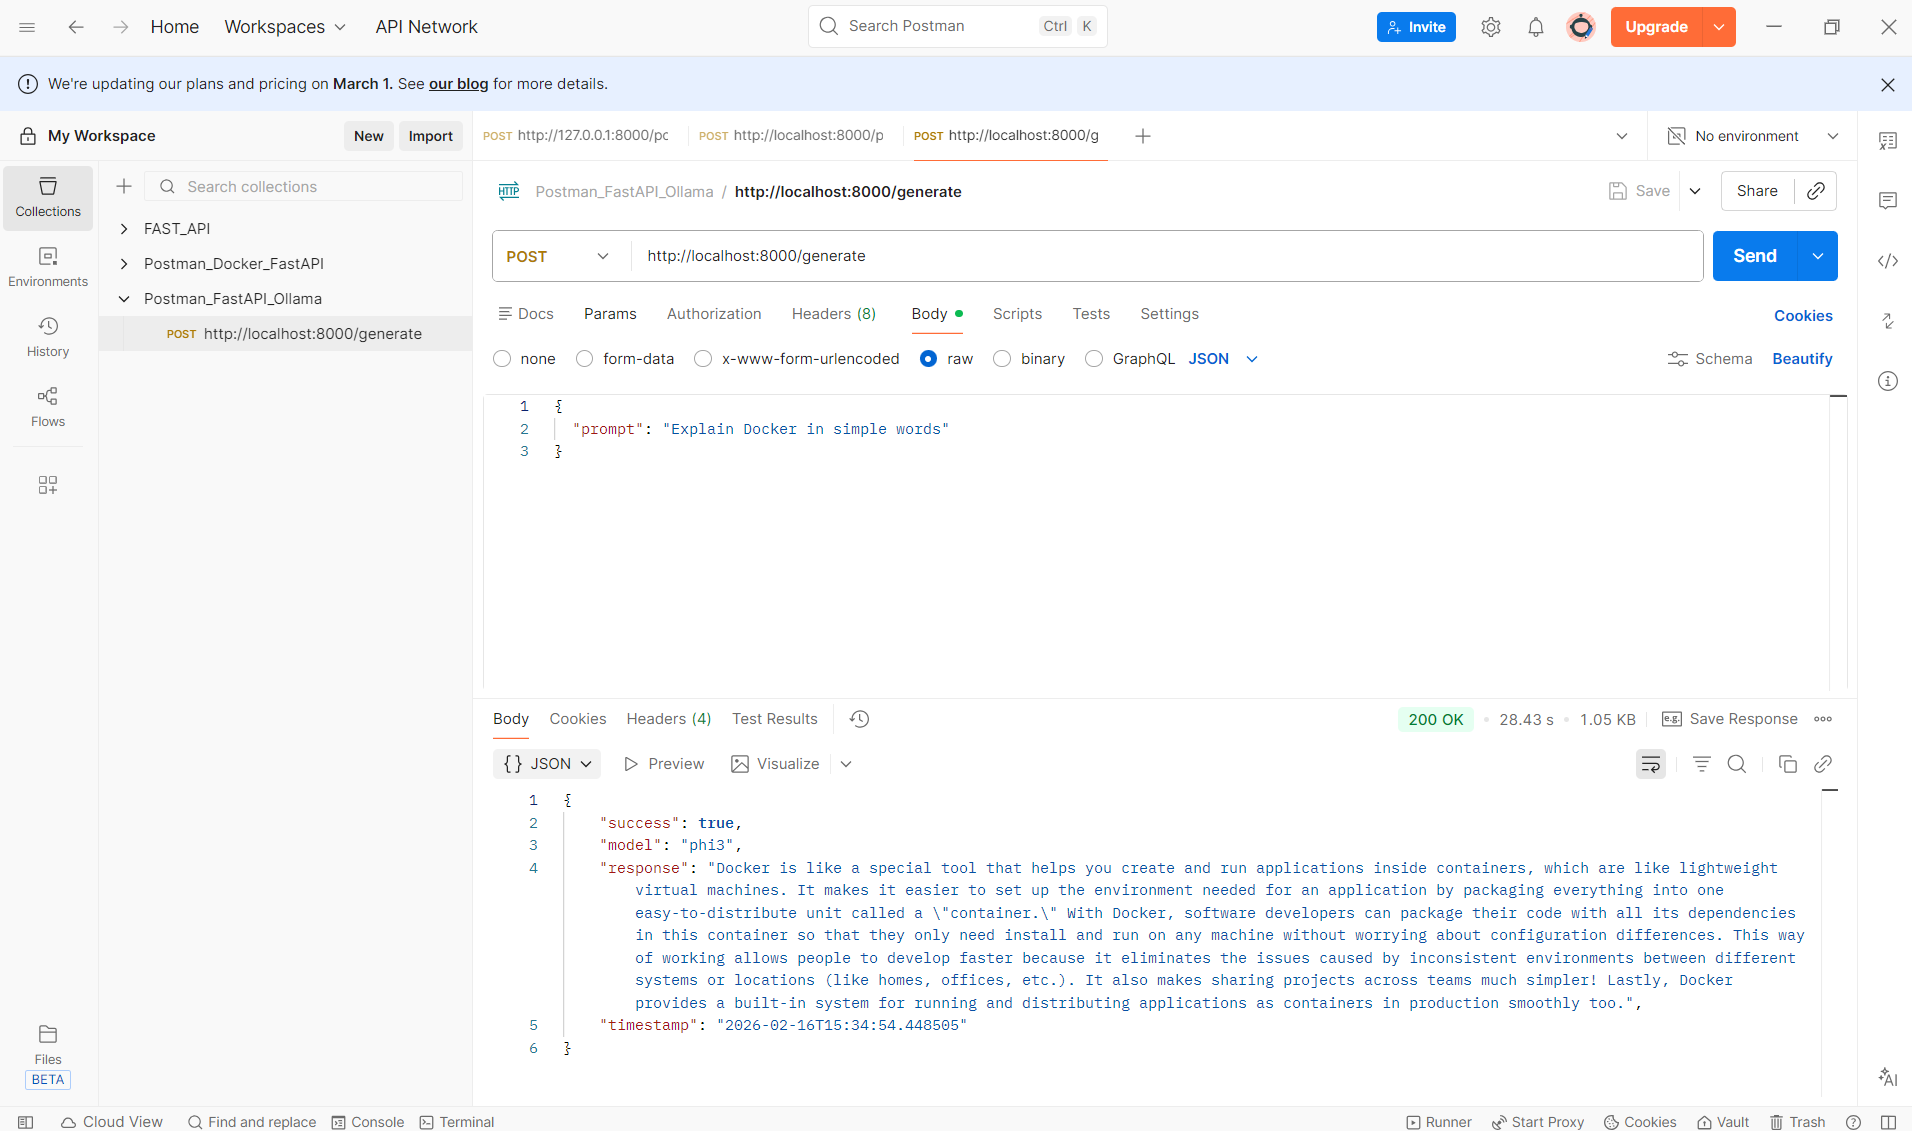
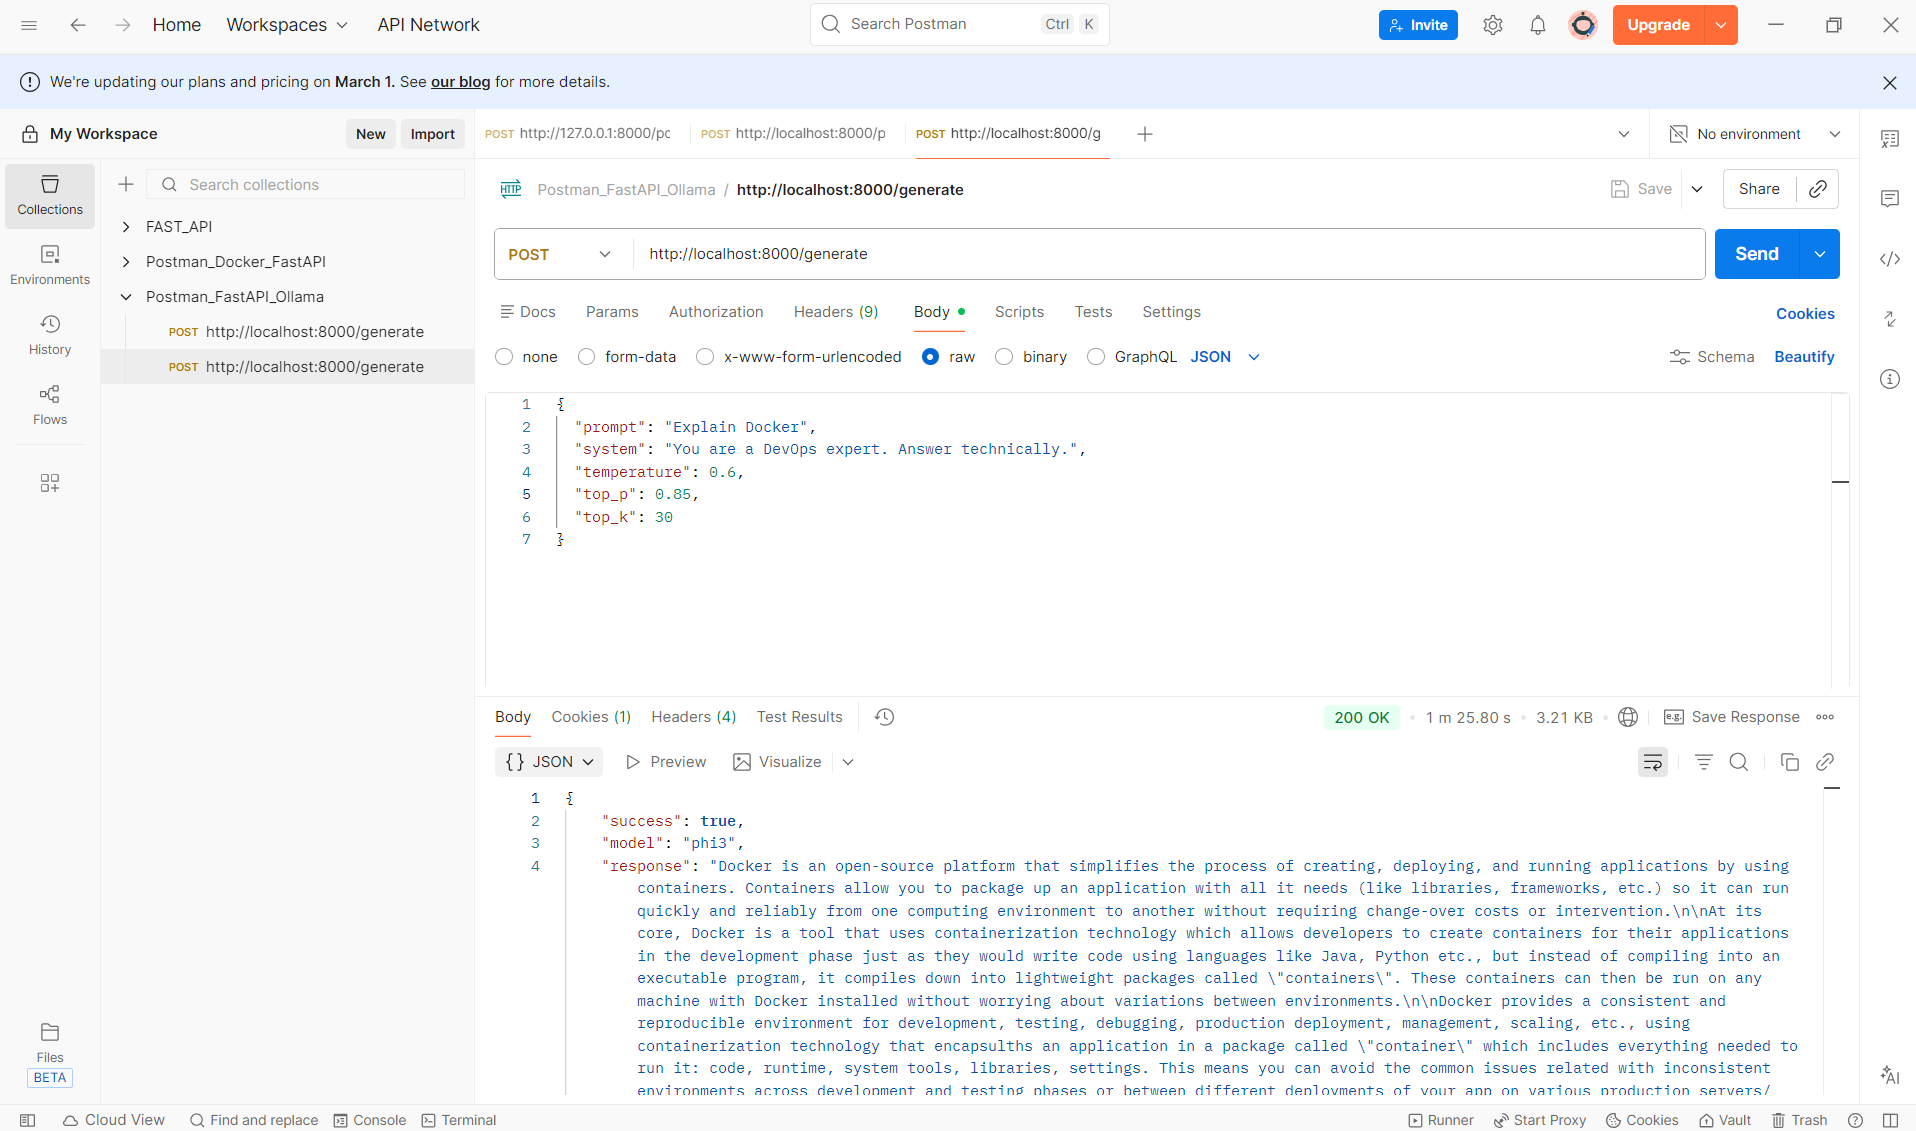
Postman  → FastAPI (Docker) -> Ollama

diff --git a/Postman_FastAPI_Ollama/main.py b/Postman_FastAPI_Ollama/main.py
@@ -1,12 +1,16 @@
 from fastapi import FastAPI, HTTPException
-from pydantic import BaseModel
+from pydantic import BaseModel, Field
+from typing import Optional
 import requests
 from datetime import datetime
 
 app = FastAPI()
-
 class PromptRequest(BaseModel):
     prompt: str
+    system: Optional[str] = "You are a helpful AI assistant."
+    temperature: Optional[float] = Field(default=0.7, ge=0.0, le=2.0)
+    top_p: Optional[float] = Field(default=0.9, ge=0.0, le=1.0)
+    top_k: Optional[int] = Field(default=40, ge=1)
 
 @app.get("/")
 def health():
@@ -24,7 +28,13 @@ def generate_text(request: PromptRequest):
         payload = {
             "model": "phi3",
             "prompt": request.prompt,
-            "stream": False
+            "system": request.system,
+            "stream": False,
+            "options": {
+                "temperature": request.temperature,
+                "top_p": request.top_p,
+                "top_k": request.top_k
+            }
         }
 
         response = requests.post(ollama_url, json=payload)

diff --git a/Postman_FastAPI_Ollama/README.md b/Postman_FastAPI_Ollama/README.md
@@ -22,12 +22,12 @@ Response
 ```
 Then pull a model:
 ```
-ollama pull llama3
+ollama pull phi3
 ```
 2. Open cmd inside "Postman_FastAPI_Ollama" folder   
 3. Run the docker command in cmd to Build Docker Image
 ```
-"docker build -t fastapi-ollama ."
+docker build -t fastapi-ollama .
 ```
 <img src="imgs/docker_img_create.png" width="600px">
 This creates an image named fastapi-ollama.
@@ -296,3 +296,22 @@ Flow back:
 Ollama → FastAPI → Uvicorn → Docker → Your PC → Postman
 ```
 Postman shows result.
+
+
+## Update PromptRequest Model
+```
+from pydantic import BaseModel, Field
+from typing import Optional
+
+class PromptRequest(BaseModel):
+    prompt: str
+    system: Optional[str] = "You are a helpful AI assistant."
+    temperature: Optional[float] = Field(default=0.7, ge=0.0, le=2.0)
+    top_p: Optional[float] = Field(default=0.9, ge=0.0, le=1.0)
+    top_k: Optional[int] = Field(default=40, ge=1)
+```
+
+✅ What This Does
+   -  Optional → user can omit fields
+   -  Field → adds validation
+   -  ge / le → prevents invalid values
